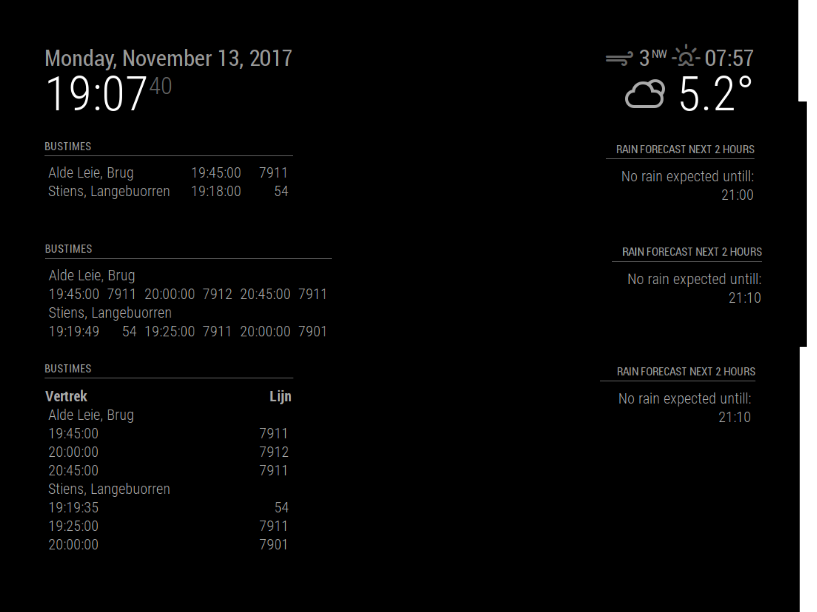
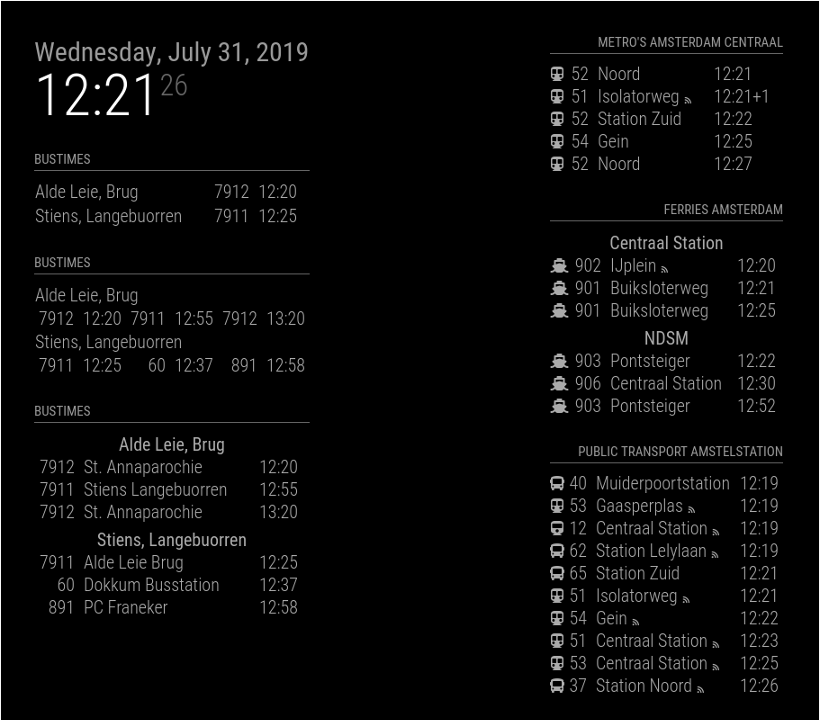
Update the preview screenshot in README.

Changed region(s): [[0.6732, 0.0, 1.0, 1.0], [0.0306, 0.2173, 0.3978, 0.9003], [0.0306, 0.0621, 0.3978, 0.1863]]

diff --git a/README.md b/README.md
@@ -15,6 +15,10 @@ Specifically, these display modes are:
  - *medium* - One stop per row, with multiple departures per row.
  - *large* - One departure per row (number of rows configurable).
 
+The module instances on the right in the screenshot show some optional
+additional display options. Please see the list of supported configuration
+options below for all available options.
+
 
 # Installation
 Navigate into your MagicMirror's `modules` folder and execute
